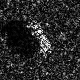
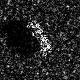
psc stage1 complete

diff --git a/train_psc.py b/train_psc.py
@@ -9,7 +9,8 @@ from PIL import Image, ImageDraw
 from src.dataset import ComplexImageDataset
 from src.psc_module import PSCModule
 
-SPARSE_L1_WEIGHT = 100.0
+SPARSE_L1_WEIGHT = 50.0
+SOFT_THRESHOLD_TAU = 0.01
 
 
 def complex_mse_loss(x: torch.Tensor, y: torch.Tensor) -> torch.Tensor:
@@ -18,9 +19,23 @@ def complex_mse_loss(x: torch.Tensor, y: torch.Tensor) -> torch.Tensor:
     )
 
 
+def soft_threshold(x: torch.Tensor, tau: float) -> torch.Tensor:
+    return torch.sign(x) * torch.clamp(torch.abs(x) - tau, min=0.0)
+
+
 def save_amplitude_image(tensor: torch.Tensor, path: str) -> None:
     amplitude = torch.abs(tensor.detach().cpu()).squeeze(0)
     amplitude = amplitude.clamp(0.0, 1.0)
+    image = (amplitude.numpy() * 255.0).astype("uint8")
+    Image.fromarray(image, mode="L").save(path)
+
+
+def save_minmax_amplitude_image(tensor: torch.Tensor, path: str) -> None:
+    amplitude = torch.abs(tensor.detach().cpu()).squeeze(0)
+    amplitude = amplitude - amplitude.min()
+    max_value = amplitude.max()
+    if max_value > 0:
+        amplitude = amplitude / max_value
     image = (amplitude.numpy() * 255.0).astype("uint8")
     Image.fromarray(image, mode="L").save(path)
 
@@ -32,6 +47,13 @@ def save_heatmap_image(tensor: torch.Tensor, side: int, path: str) -> None:
     max_value = heatmap.max()
     if max_value > 0:
         heatmap = heatmap / max_value
+    image = (heatmap.numpy() * 255.0).astype("uint8")
+    Image.fromarray(image, mode="L").save(path)
+
+
+def save_raw_heatmap_image(tensor: torch.Tensor, side: int, path: str) -> None:
+    heatmap = torch.abs(tensor.detach().cpu().reshape(side, side))
+    heatmap = heatmap.clamp(min=0.0, max=1.0)
     image = (heatmap.numpy() * 255.0).astype("uint8")
     Image.fromarray(image, mode="L").save(path)
 
@@ -77,13 +99,22 @@ def main() -> None:
 
     for epoch in range(2):
         epoch_recon_loss_total = 0.0
+        epoch_input_min_total = 0.0
+        epoch_input_max_total = 0.0
+        epoch_input_mean_total = 0.0
+        epoch_recon_min_total = 0.0
+        epoch_recon_max_total = 0.0
+        epoch_recon_mean_total = 0.0
+        epoch_o_min_total = 0.0
         epoch_o_mean_total = 0.0
         epoch_o_max_total = 0.0
         epoch_o_nonzero_ratio_total = 0.0
+        epoch_p_min_total = 0.0
         epoch_p_mean_total = 0.0
         epoch_p_max_total = 0.0
         epoch_p_l1_total = 0.0
         epoch_p_nonzero_ratio_total = 0.0
+        last_o_abs_top20 = None
         num_steps = 0
 
         for step, batch in enumerate(dataloader, start=1):
@@ -93,6 +124,7 @@ def main() -> None:
                 print(f"is complex: {batch.is_complex()}")
 
             recon, o, p = model(batch)
+            p = soft_threshold(p, SOFT_THRESHOLD_TAU)
 
             if epoch == 0 and step == 1:
                 print(f"recon shape: {recon.shape}")
@@ -113,51 +145,95 @@ def main() -> None:
             print(f"epoch {epoch + 1} step {step} loss: {loss.item():.6f}")
             num_steps += 1
             epoch_recon_loss_total += recon_loss.item()
-            epoch_o_mean_total += o.mean().item()
-            epoch_o_max_total += o.max().item()
+            input_amplitude = torch.abs(batch)
+            recon_amplitude = torch.abs(recon)
+            o_abs = torch.abs(o)
+            p_abs = torch.abs(p)
+            epoch_input_min_total += input_amplitude.min().item()
+            epoch_input_max_total += input_amplitude.max().item()
+            epoch_input_mean_total += input_amplitude.mean().item()
+            epoch_recon_min_total += recon_amplitude.min().item()
+            epoch_recon_max_total += recon_amplitude.max().item()
+            epoch_recon_mean_total += recon_amplitude.mean().item()
+            epoch_o_min_total += o.min().item()
+            epoch_o_mean_total += torch.abs(o).mean().item()
+            epoch_o_max_total += torch.abs(o).max().item()
             epoch_o_nonzero_ratio_total += (torch.abs(o) > 1e-3).float().mean().item()
+            epoch_p_min_total += p.min().item()
             epoch_p_mean_total += p.mean().item()
             epoch_p_max_total += p.max().item()
-            epoch_p_l1_total += torch.sum(torch.abs(p)).item()
-            epoch_p_nonzero_ratio_total += (torch.abs(p) > 1e-4).float().mean().item()
+            epoch_p_l1_total += torch.sum(p_abs).item()
+            epoch_p_nonzero_ratio_total += (p_abs > 1e-2).float().mean().item()
+            last_o_abs_top20 = torch.topk(o_abs.flatten(), k=20).values.detach().cpu()
 
             if step == 1:
                 save_amplitude_image(
                     batch[0], str(output_dir / f"epoch_{epoch + 1}_input.png")
                 )
                 save_amplitude_image(
-                    recon[0], str(output_dir / f"epoch_{epoch + 1}_recon.png")
+                    recon[0], str(output_dir / f"epoch_{epoch + 1}_recon_raw.png")
+                )
+                save_minmax_amplitude_image(
+                    recon[0], str(output_dir / f"epoch_{epoch + 1}_recon_norm.png")
+                )
+                save_raw_heatmap_image(
+                    o[0],
+                    infer_square_side(o[0]),
+                    str(output_dir / f"epoch_{epoch + 1}_o_raw.png"),
                 )
                 save_heatmap_image(
                     o[0],
                     infer_square_side(o[0]),
-                    str(output_dir / f"epoch_{epoch + 1}_o.png"),
+                    str(output_dir / f"epoch_{epoch + 1}_o_norm.png"),
                 )
                 save_histogram_image(
                     o[0], str(output_dir / f"epoch_{epoch + 1}_o_hist.png")
                 )
+                save_raw_heatmap_image(
+                    p[0],
+                    infer_square_side(p[0]),
+                    str(output_dir / f"epoch_{epoch + 1}_p_raw.png"),
+                )
                 save_heatmap_image(
                     p[0],
                     infer_square_side(p[0]),
-                    str(output_dir / f"epoch_{epoch + 1}_p.png"),
+                    str(output_dir / f"epoch_{epoch + 1}_p_norm.png"),
                 )
 
         print(f"epoch {epoch + 1} recon loss: {epoch_recon_loss_total / num_steps:.6f}")
         print(
-            f"epoch {epoch + 1} o stats: mean={epoch_o_mean_total / num_steps:.6f}, "
-            f"max={epoch_o_max_total / num_steps:.6f}"
+            f"epoch {epoch + 1} input amplitude stats: "
+            f"min={epoch_input_min_total / num_steps:.6f}, "
+            f"max={epoch_input_max_total / num_steps:.6f}, "
+            f"mean={epoch_input_mean_total / num_steps:.6f}"
+        )
+        print(
+            f"epoch {epoch + 1} recon amplitude stats: "
+            f"min={epoch_recon_min_total / num_steps:.6f}, "
+            f"max={epoch_recon_max_total / num_steps:.6f}, "
+            f"mean={epoch_recon_mean_total / num_steps:.6f}"
+        )
+        print(
+            f"epoch {epoch + 1} o stats: min={epoch_o_min_total / num_steps:.6f}, "
+            f"max(abs)={epoch_o_max_total / num_steps:.6f}, "
+            f"mean(abs)={epoch_o_mean_total / num_steps:.6f}"
         )
         print(
             f"epoch {epoch + 1} o nonzero ratio (>1e-3): "
             f"{epoch_o_nonzero_ratio_total / num_steps:.6f}"
         )
         print(
-            f"epoch {epoch + 1} p stats: mean={epoch_p_mean_total / num_steps:.6f}, "
-            f"max={epoch_p_max_total / num_steps:.6f}"
+            f"epoch {epoch + 1} o abs top20: "
+            f"{[round(value, 6) for value in last_o_abs_top20.tolist()]}"
+        )
+        print(
+            f"epoch {epoch + 1} p stats: min={epoch_p_min_total / num_steps:.6f}, "
+            f"max={epoch_p_max_total / num_steps:.6f}, "
+            f"mean={epoch_p_mean_total / num_steps:.6f}"
         )
         print(f"epoch {epoch + 1} p l1 norm: {epoch_p_l1_total / num_steps:.6f}")
         print(
-            f"epoch {epoch + 1} p nonzero ratio (>1e-4): "
+            f"epoch {epoch + 1} p nonzero ratio (>1e-2): "
             f"{epoch_p_nonzero_ratio_total / num_steps:.6f}"
         )
 

diff --git a/src/psc_dictionary.py b/src/psc_dictionary.py
@@ -1,6 +1,8 @@
 import math
+from pathlib import Path
 
 import torch
+from PIL import Image
 
 from src.config import B, H, P, Q, W, c, fc, phi_syn_deg, xinterval, yinterval
 
@@ -10,11 +12,42 @@ def _linspace_extent(num_points: int, spacing: float, device: torch.device) -> t
     return torch.linspace(-half_extent, half_extent, steps=num_points, device=device)
 
 
+def _normalize_to_uint8(image: torch.Tensor) -> Image.Image:
+    image = image.detach().cpu().to(torch.float32)
+    image = image - image.min()
+    max_value = image.max()
+    if max_value > 0:
+        image = image / max_value
+    array = (image.numpy() * 255.0).astype("uint8")
+    return Image.fromarray(array, mode="L")
+
+
+def _save_atom_diagnostics(
+    psi: torch.Tensor, measure_p: int, measure_q: int, debug: bool, debug_size: int
+) -> None:
+    output_dir = Path("outputs") / "psi_atoms"
+    output_dir.mkdir(parents=True, exist_ok=True)
+
+    generator = torch.Generator(device="cpu")
+    generator.manual_seed(0)
+    atom_indices = torch.randperm(psi.shape[1], generator=generator)[:5].tolist()
+    mode_name = f"debug_{debug_size}" if debug else "full_80"
+
+    for atom_idx in atom_indices:
+        atom = psi[:, atom_idx].view(measure_p, measure_q)
+        real_image = _normalize_to_uint8(atom.real)
+        imag_image = _normalize_to_uint8(atom.imag)
+        phase_image = _normalize_to_uint8(torch.angle(atom))
+        real_image.save(output_dir / f"{mode_name}_atom_{atom_idx}_real.png")
+        imag_image.save(output_dir / f"{mode_name}_atom_{atom_idx}_imag.png")
+        phase_image.save(output_dir / f"{mode_name}_atom_{atom_idx}_phase.png")
+
+
 def build_psc_dictionary(
     debug: bool = True,
     debug_size: int = 32,
     device: torch.device | str | None = None,
-    chunk_size: int = 8,
+    chunk_size: int = 128,
 ) -> torch.Tensor:
     if device is None:
         device = torch.device("cpu")
@@ -26,14 +59,13 @@ def build_psc_dictionary(
     measure_p = debug_size if debug else P
     measure_q = debug_size if debug else Q
 
-    x_coords = _linspace_extent(signal_w, xinterval, device)
-    y_coords = _linspace_extent(signal_h, yinterval, device)
-    yy, xx = torch.meshgrid(y_coords, x_coords, indexing="ij")
-    spatial_grid = xx.reshape(-1)
-    range_grid = yy.reshape(-1)
+    scatter_x = _linspace_extent(signal_w, xinterval, device)
+    scatter_y = _linspace_extent(signal_h, yinterval, device)
+    yy, xx = torch.meshgrid(scatter_y, scatter_x, indexing="ij")
+    scatter_positions = torch.stack((xx.reshape(-1), yy.reshape(-1)), dim=1)
 
     phi_syn = math.radians(phi_syn_deg)
-    view_angles = torch.linspace(
+    phi = torch.linspace(
         -phi_syn / 2.0,
         phi_syn / 2.0,
         steps=measure_q,
@@ -47,26 +79,41 @@ def build_psc_dictionary(
         device=device,
         dtype=torch.float32,
     )
-    wavenumbers = 2.0 * math.pi * frequencies / c
 
-    steering = (
-        torch.cos(view_angles).unsqueeze(1) * range_grid.unsqueeze(0)
-        + torch.sin(view_angles).unsqueeze(1) * spatial_grid.unsqueeze(0)
+    phase_projection = (
+        scatter_positions[:, 0].unsqueeze(1) * torch.cos(phi).unsqueeze(0)
+        + scatter_positions[:, 1].unsqueeze(1) * torch.sin(phi).unsqueeze(0)
     )
 
     signal_dim = signal_h * signal_w
     measure_dim = measure_p * measure_q
     psi = torch.empty((measure_dim, signal_dim), dtype=torch.complex64, device=device)
 
-    scale = 1.0 / math.sqrt(signal_dim)
     write_row = 0
     for start in range(0, measure_p, chunk_size):
         end = min(start + chunk_size, measure_p)
-        phase = wavenumbers[start:end].view(-1, 1, 1) * steering.view(1, measure_q, -1)
-        block = torch.polar(torch.ones_like(phase), -phase) * scale
-        block_rows = (end - start) * measure_q
-        psi[write_row : write_row + block_rows] = block.reshape(block_rows, signal_dim)
-        write_row += block_rows
+        frequency_block = frequencies[start:end]
+        phase = (
+            -(4.0 * math.pi / c)
+            * frequency_block.view(-1, 1, 1)
+            * phase_projection.view(1, signal_dim, measure_q)
+        )
+        atom_block = torch.polar(torch.ones_like(phase), phase)
+        atom_block = atom_block.permute(0, 2, 1).reshape(-1, signal_dim)
+        psi[write_row : write_row + atom_block.shape[0]] = atom_block
+        write_row += atom_block.shape[0]
 
+    column_norms = torch.linalg.vector_norm(psi, ord=2, dim=0, keepdim=True).clamp_min(1e-12)
+    psi = psi / column_norms
+
+    norm_values = torch.linalg.vector_norm(psi, ord=2, dim=0)
     print(f"Psi shape: {psi.shape}, dtype: {psi.dtype}, device: {psi.device}")
+    print(
+        "Psi column norms: "
+        f"min={norm_values.min().item():.6f}, "
+        f"max={norm_values.max().item():.6f}, "
+        f"mean={norm_values.mean().item():.6f}"
+    )
+
+    _save_atom_diagnostics(psi, measure_p, measure_q, debug=debug, debug_size=debug_size)
     return psi

diff --git a/README.md b/README.md
@@ -41,5 +41,9 @@ python train_psc.py
 
 - The current debug dictionary size is `32 x 32`, so `Psi` has shape `[1024, 1024]`.
 - During training, the script saves input amplitude, reconstruction amplitude, `o` heatmap, and `p` heatmap for each epoch in `outputs/`.
-- The current output does not yet indicate a strong or physically validated sparse-scatterer trend.
+- The current reconstruction can look visually dark even when structure is present, because the raw amplitude may occupy a compressed numeric range; `recon_norm.png` is saved to diagnose this display-scale effect.
+- The current raw reconstruction is mainly dark because of dynamic-range compression rather than immediate reconstruction collapse.
+- After min-max normalization, `recon_norm.png` usually reveals that structural content is still present.
+- The current optimization focus has shifted from "can the model reconstruct anything at all" to "can the latent coefficients evolve into truly sparse scatterer points".
+- The current `o` output should not yet be interpreted as a true sparse-scatterer map; in many runs it reflects overall amplitude shrinkage more than isolated physically meaningful bright points.
 - At this stage, `p` comes from a simplified HQS-style approximation, so any sparsity-like pattern should be treated only as a debugging signal rather than a paper-level reconstruction result.
